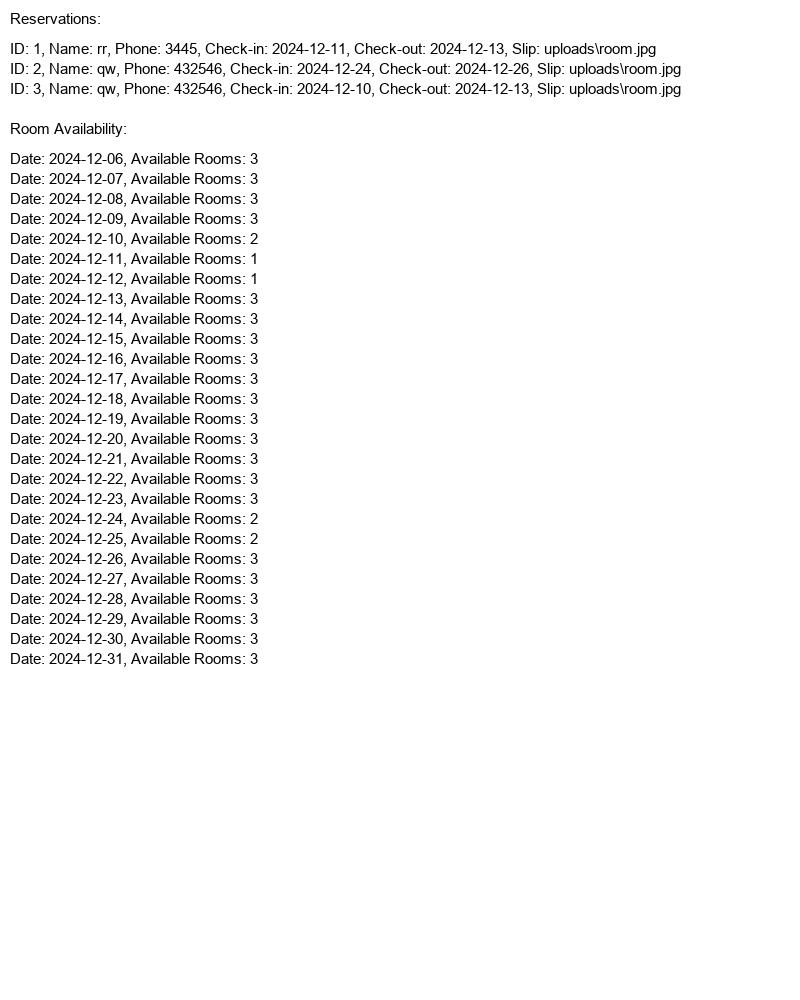
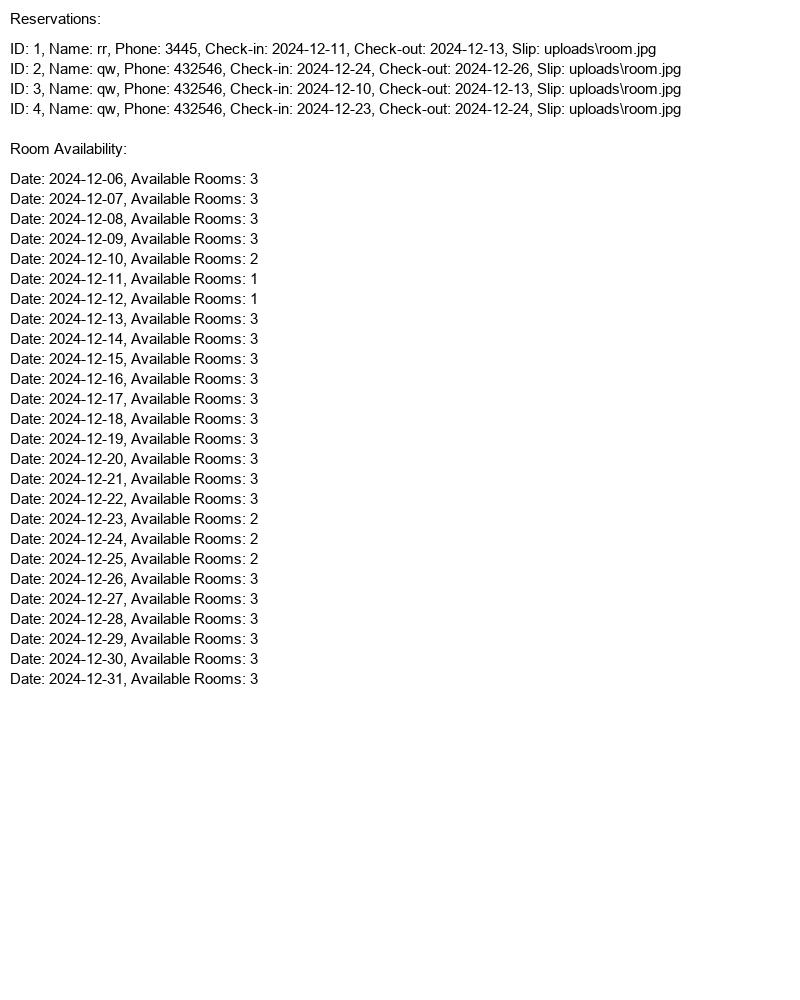
Initial commit

diff --git a/venv/hotel_informaion.html b/venv/hotel_informaion.html
@@ -1,0 +1,65 @@
+<!DOCTYPE html>
+<html lang="en">
+<head>
+    <meta charset="UTF-8">
+    <meta name="viewport" content="width=device-width, initial-scale=1.0">
+    <title>Hotel Information</title>
+    <style>
+        .container {
+            text-align: center;
+            margin: 20px;
+        }
+        .image-container {
+            display: flex;
+            justify-content: center;
+            margin-bottom: 20px;
+        }
+        .image-container img {
+            max-width: 300px;
+            margin: 0 10px;
+        }
+        .map-container {
+            margin: 20px 0;
+        }
+        .price {
+            font-size: 24px;
+            font-weight: bold;
+            margin: 20px 0;
+        }
+        .btn {
+            display: inline-block;
+            padding: 10px 20px;
+            font-size: 18px;
+            color: #fff;
+            background-color: #007BFF;
+            text-decoration: none;
+            border-radius: 5px;
+            transition: background-color 0.3s;
+        }
+        .btn:hover {
+            background-color: #0056b3;
+        }
+    </style>
+</head>
+<body>
+    <div class="container">
+        <h1>Hotel Information</h1>
+        <div class="image-container">
+            <img src="{{ url_for('static', filename='hotel_pic.png') }}" alt="Hotel Picture">
+            <img src="{{ url_for('static', filename='room_pic.jpg') }}" alt="Room Picture">
+        </div>
+        <div class="map-container">
+            <iframe
+                src="https://www.google.com/maps/embed?pb=!1m14!1m8!1m3!1d232.0423325210347!2d102.80605226516184!3d16.409741460289343!3m2!1i1024!2i768!4f13.1!3m3!1m2!1s0x312289b18e928e27%3A0x4c3ec1e1f8baea25!2sBun%20House%20Apartment%20Khonkaen!5e1!3m2!1sth!2sth!4v1733472992151!5m2!1sth!2sth"
+                width="350"
+                height="260"
+                style="border:0;"
+                allowfullscreen=""
+                loading="lazy"
+            ></iframe>
+        </div>
+        <div class="price">Room Price: 450 บาท/คืน</div>
+        <a href="/status_room" class="btn">ตรวจสอบห้องว่างและจองห้องพัก</a>
+    </div>
+</body>
+</html>

diff --git a/app.py b/app.py
@@ -7,11 +7,12 @@ import threading
 import time
 
 app = Flask(__name__)
-app.config['SQLALCHEMY_DATABASE_URI'] = os.environ.get('DATABASE_URL', 'sqlite:///instance/reservations.db')
+app.config['SQLALCHEMY_DATABASE_URI'] = 'sqlite:///reservations.db'
 app.config['SQLALCHEMY_TRACK_MODIFICATIONS'] = False
 app.config['UPLOAD_FOLDER'] = 'uploads'
 
 db = SQLAlchemy(app)
+
 
 class Reservation(db.Model):
     id = db.Column(db.Integer, primary_key=True)
@@ -21,22 +22,27 @@ class Reservation(db.Model):
     checkout = db.Column(db.String(10), nullable=False)
     slip = db.Column(db.String(100), nullable=False)
 
+
 class RoomAvailability(db.Model):
     id = db.Column(db.Integer, primary_key=True)
     date = db.Column(db.String(10), nullable=False, unique=True)
     available_rooms = db.Column(db.Integer, nullable=False)
 
+
 @app.route('/')
 def hotel_informaion():
     return render_template('hotel_informaion.html')
+
 
 @app.route('/status_room')
 def status_room():
     return render_template('status_room.html')
 
+
 @app.route('/reservation_form')
 def reservation_form():
     return render_template('reservation_form.html')
+
 
 @app.route('/submit-reservation', methods=['POST'])
 def submit_reservation():
@@ -55,6 +61,7 @@ def submit_reservation():
     db.session.add(new_reservation)
     db.session.commit()
 
+    # อัปเดตจำนวนห้องว่างในแต่ละวันหลังจากการจอง
     con = sqlite3.connect('instance/reservations.db')
     cur = con.cursor()
 
@@ -75,6 +82,7 @@ def submit_reservation():
 
     return jsonify({'message': 'Reservation successful!'})
 
+
 @app.route('/get-room-status')
 def get_room_status():
     reservations = RoomAvailability.query.all()
@@ -91,16 +99,17 @@ def get_room_status():
             })
     return jsonify(events)
 
+
 def initialize_room_availability():
     start_date = datetime.now().date()
-    end_date = start_date + timedelta(days=30)
+    end_date = start_date + timedelta(days=30)  # สร้างข้อมูลสำหรับ 30 วันข้างหน้า
 
     current_date = start_date
     while current_date <= end_date:
         day_of_week = current_date.weekday()
-        if day_of_week < 5:
-            available_rooms = 5
-        else:
+        if day_of_week < 5:  # Monday (0) to Friday (4)
+            available_rooms = 5  # เปลี่ยนค่าเริ่มต้นเป็น 5
+        else:  # Saturday (5) and Sunday (6)
             available_rooms = 5
 
         date_str = current_date.strftime('%Y-%m-%d')
@@ -110,14 +119,17 @@ def initialize_room_availability():
 
     db.session.commit()
 
+
 def update_room_availability():
     while True:
         try:
             con = sqlite3.connect('instance/reservations.db')
             cur = con.cursor()
 
-            cur.execute("UPDATE room_availability SET available_rooms = 5")
+            # รีเซ็ตจำนวนห้องว่างตามค่าเริ่มต้น (***ใส่จำนวนห้องว่างทั้งหมด***)
+            cur.execute("UPDATE room_availability SET available_rooms = 3")
 
+            # ดึงข้อมูลการจองทั้งหมด
             cur.execute("SELECT checkin, checkout FROM reservation")
             reservations = cur.fetchall()
 
@@ -131,7 +143,8 @@ def update_room_availability():
                     cur.execute("SELECT available_rooms FROM room_availability WHERE date = ?", (date_str,))
                     available_rooms = cur.fetchone()[0]
                     available_rooms -= 1
-                    cur.execute("UPDATE room_availability SET available_rooms = ? WHERE date = ?", (available_rooms, date_str))
+                    cur.execute("UPDATE room_availability SET available_rooms = ? WHERE date = ?",
+                                (available_rooms, date_str))
                     date_to_update += timedelta(days=1)
 
             con.commit()
@@ -141,15 +154,18 @@ def update_room_availability():
             time.sleep(1)
             continue
 
+        # อัปเดตทุก 30 วินาที
         time.sleep(30)
+
 
 if __name__ == '__main__':
     with app.app_context():
-        db.create_all()
+        db.create_all()  # สร้างตารางในฐานข้อมูล
         if RoomAvailability.query.count() == 0:
-            initialize_room_availability()
+            initialize_room_availability()  # เติมข้อมูลเริ่มต้น
 
+        # เริ่มกระบวนการอัปเดตจำนวนห้องว่างใน background
         update_thread = threading.Thread(target=update_room_availability)
         update_thread.start()
 
-    app.run(debug=True, host='0.0.0.0', port=int(os.environ.get('PORT', 5000)))
+    app.run(debug=True)
